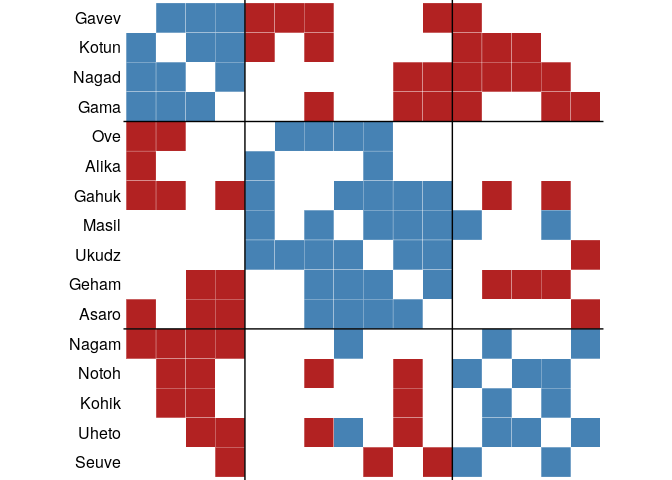
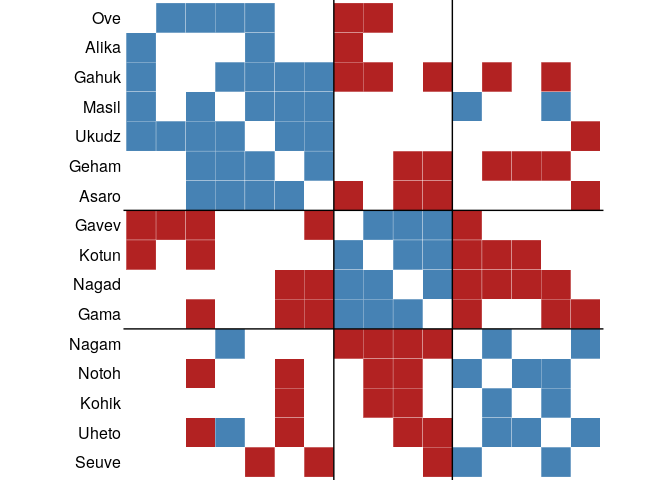
fiex typos

diff --git a/README.md b/README.md
@@ -50,12 +50,12 @@ A network is balanced if i.a., it can be partitioned into two vertex
 subsets, such that intra-group edges are all positive and inter-group
 edges are all negative. Determining this is easy, but measuring a
 *degree of balancedness* (i.e. how close is a network to be balanced?)
-is not. Tee package, so far, implements three methods to calculate
+is not. The package, so far, implements three methods to calculate
 balance scores. All are defined such that a value of one indicates
 perfect balance and zero perfect unbalance. Though for intermediate
 networks, results may vary significantly. Check [this
-paper](https://doi.org/10.1093/comnet/cnx044) by Samin Aref for more
-details.
+paper](https://doi.org/10.1093/comnet/cnx044) by Samin Aref (and his
+other work) for more details.
 
 ``` r
 library(igraph)
@@ -81,7 +81,7 @@ are negative.
 clu <- signed_blockmodel(tribes,k = 3,alpha = 0.5,annealing = TRUE)
 clu
 #> $membership
-#>  [1] 1 1 2 2 3 2 2 2 3 3 2 2 3 3 1 1
+#>  [1] 2 2 1 1 3 1 1 1 3 3 1 1 3 3 2 2
 #> 
 #> $criterion
 #> [1] 2
